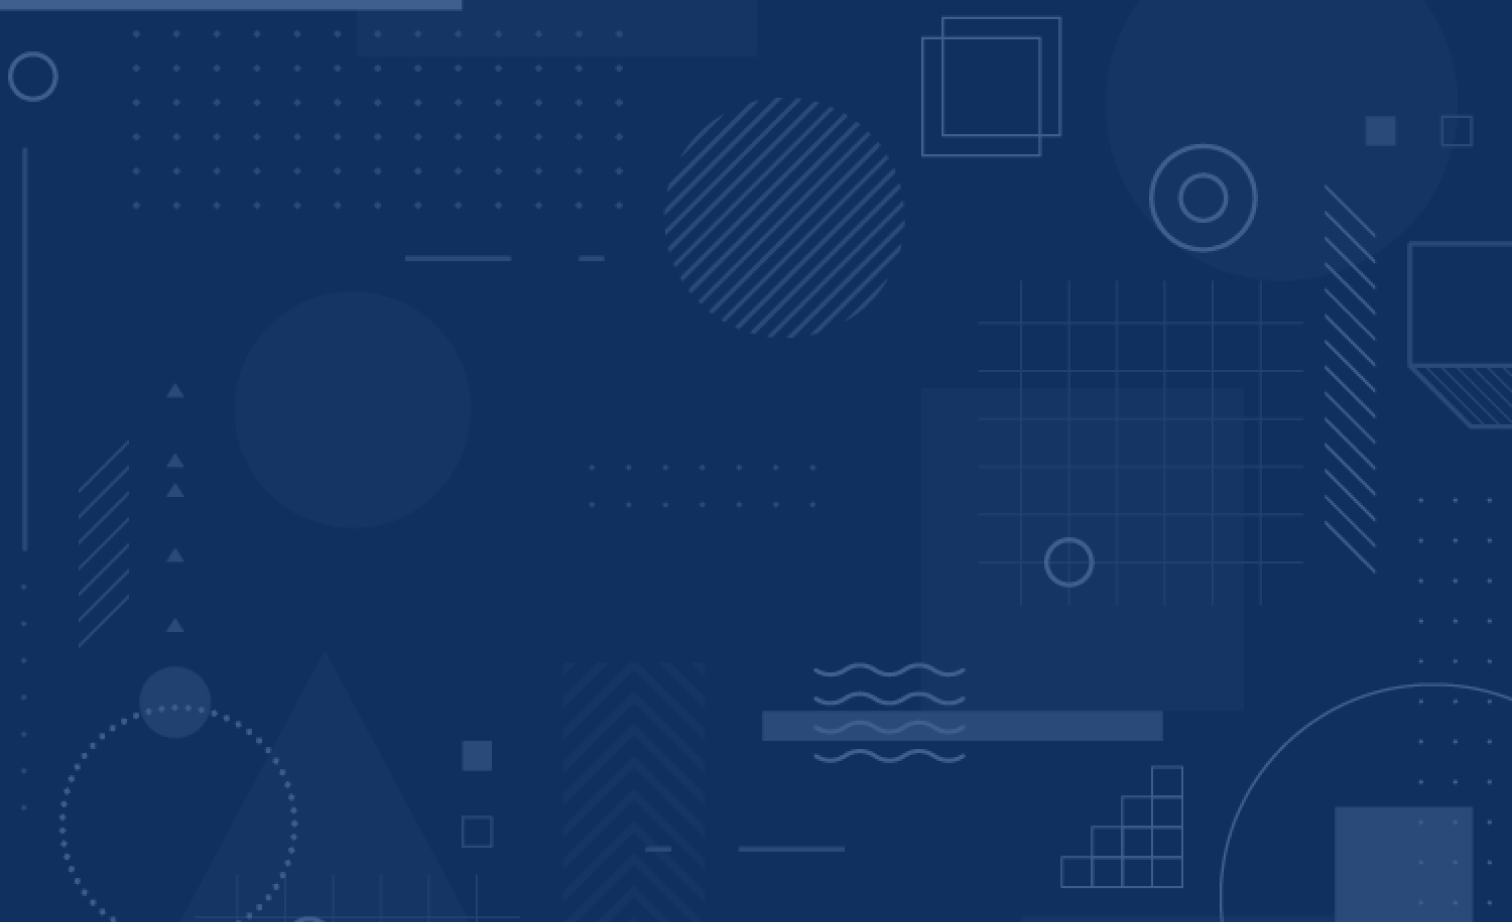
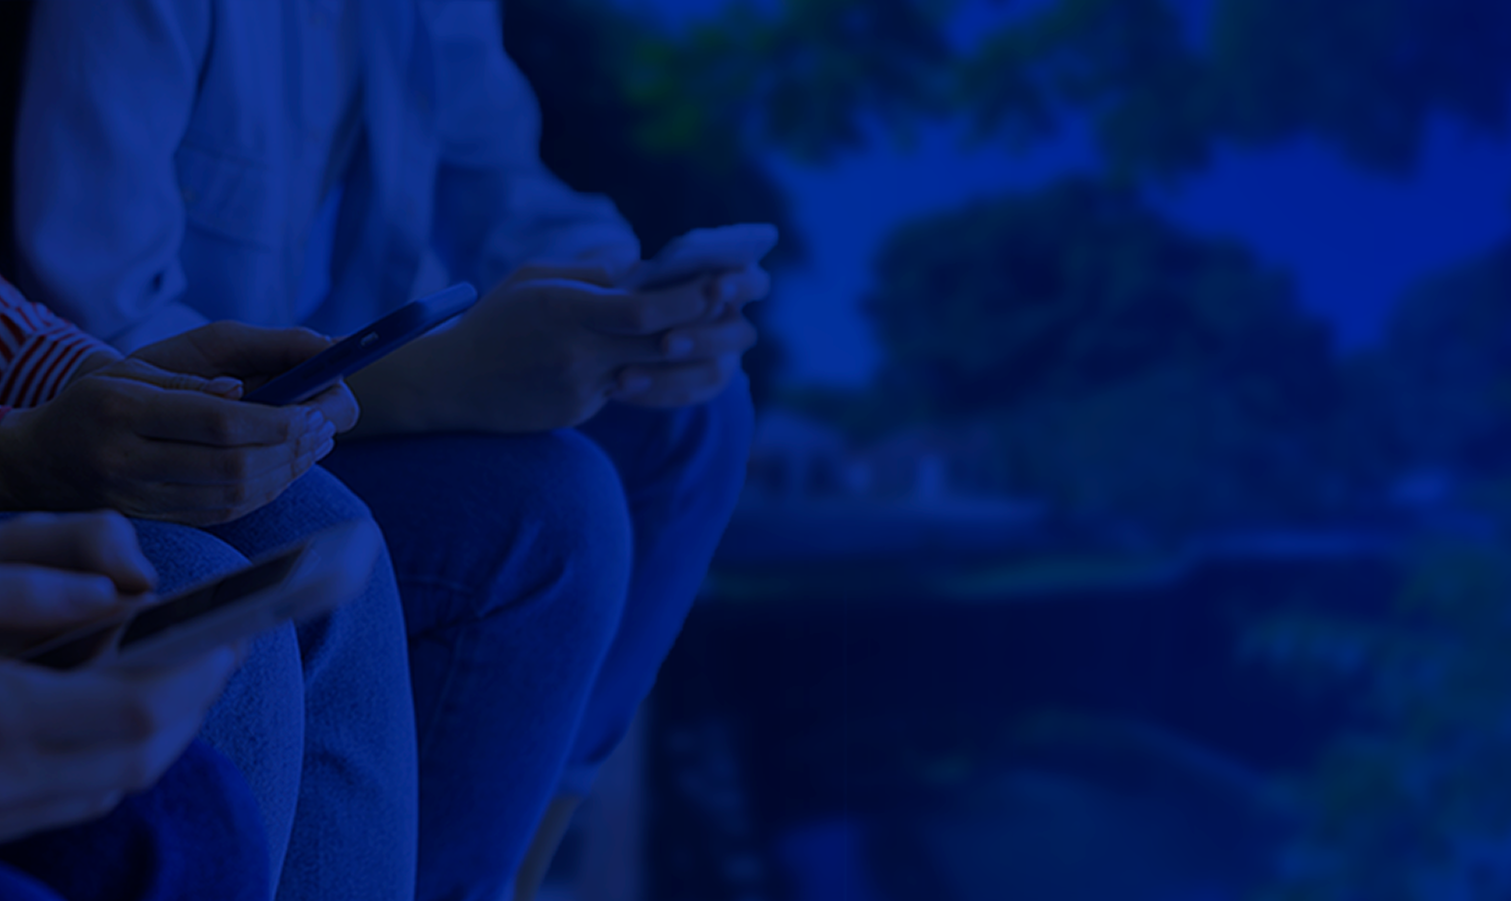
feat: new features section

diff --git a/frontend/components/Features.tsx b/frontend/components/Features.tsx
@@ -8,15 +8,62 @@ import block from '../assets/icons/block.svg'
 import notify from '../assets/icons/notify.svg'
 import location from '../assets/icons/location.svg'
 import dollar from '../assets/icons/dollar.svg'
+import feat1 from '../assets/icons/feat1.png'
+import feat2 from '../assets/icons/feat2.png'
+import feat3 from '../assets/icons/feat3.png'
+import feat4 from '../assets/icons/feat4.png'
+import { Button } from "./ui/button";
 
 export function Features() {
 
   return (
-    <section className="w-full h-screen relative flex flex-col items-center justify-center px-4 z-0">
-      <Image src={shapesLeft} alt="formas esquerda" className="absolute bottom-24 left-0 z-0" />
-      <Image src={shapesRight} alt="formas direita" className="absolute top-80 -right-0" />
+    <section className="w-full h-full lg:h-[700px] gap-20 relative flex flex-col items-center px-4 z-0 py-32">
+      <Image src={shapesLeft} alt="formas esquerda" className="absolute hidden md:block md:top-[900px] lg:top-96 2xl:top-[420px] left-0 z-0" />
+      <Image src={shapesRight} alt="formas direita" className="absolute hidden md:block top-96 md:top-[700px] lg:top-[200px] right-0" />
 
-      <div className="flex md:flex-row flex-col lg:gap-10 z-10 gap-5 md:px-10">
+      <h1 className="text-4xl text-primary font-medium self-start ml-10">Veja como é fácil se proteger</h1>
+
+      <div className="flex lg:flex-wrap flex-col lg:flex-row gap-4">
+        <div className="bg-slate-500 w-72 py-6 px-3 rounded-xl flex gap-2">
+          <Image src={feat1} alt="feat1" />
+          <div className="flex flex-col gap-2">
+            <span className="font-bold">Crie uma conta</span>
+            <span className="font-medium">Cadastre-se no Procura.Aí informando alguns dados básicos</span>
+          </div>
+        </div>
+
+        <div className="bg-procura-ai-yellow/50 w-72 py-6 px-3 rounded-xl flex gap-2">
+          <Image src={feat2} alt="feat1" />
+          <div className="flex flex-col gap-2">
+            <span className="font-bold">Crie uma conta</span>
+            <span className="font-medium">Cadastre-se no Procura.Aí informando alguns dados básicos</span>
+          </div>
+        </div>
+
+        <div className="bg-[#D04228]/50 w-72 py-6 px-3 rounded-xl flex gap-2">
+          <Image src={feat3} alt="feat1" />
+          <div className="flex flex-col gap-2">
+            <span className="font-bold">Crie uma conta</span>
+            <span className="font-medium">Cadastre-se no Procura.Aí informando alguns dados básicos</span>
+          </div>
+        </div>
+
+        <div className="bg-[#39AF84]/50 w-72 py-6 px-3 rounded-xl flex gap-2">
+          <Image src={feat4} alt="feat1" />
+          <div className="flex flex-col gap-2">
+            <span className="font-bold">Crie uma conta</span>
+            <span className="font-medium">Cadastre-se no Procura.Aí informando alguns dados básicos</span>
+          </div>
+        </div>
+      </div>
+
+      <div className="flex flex-col items-center gap-7">
+        <Button className="bg-primary w-fit text-white rounded-full text-xl shadow-sm px-10 py-7 shadow-zinc-800 hover:bg-white hover:text-primary">Cadastrar</Button>
+        <span className="text-2xl font-bold text-procura-ai-black">Disponível em breve nas principais lojas de aplicativos</span>
+      </div>
+
+
+      {/* <div className="flex md:flex-row flex-col lg:gap-10 z-10 gap-5 md:px-10">
         <div className="md:flex justify-center items-center hidden">
           <div className="flex flex-col lg:w-[390px]">
             <Image src={arrow} alt="arrow" className="rotate-90 md:rotate-0" />
@@ -40,7 +87,7 @@ export function Features() {
             </li>
           </ul>
         </div>
-      </div>
+      </div> */}
 
       {/* <span className="font-bold mb-4 text-lg z-10">Baixe nas principais lojas de aplicativos</span>
       <div className="flex z-10">

diff --git a/frontend/components/Hero.tsx b/frontend/components/Hero.tsx
@@ -6,22 +6,22 @@ import landingImages from '../assets/images/landing-images.png'
 
 export function Hero() {
   return (
-    <section className="z-100 w-full bg-zinc-100 flex items-center justify-between md:h-[400px] lg:h-[630px] xl:h-[800px] h-full text-lg md:text-xl lg:text-4xl text-white px-2 md:px-5 lg:px-10 py-7 z-10">
-      <Image src={landingImages} alt="landing background" className="w-1/2" />
-      <div className="flex flex-col items-end gap-1 lg:gap-5">
-        <span className="font-bold w-9/12 text-end text-5xl lg:text-5xl text-primary">
+    <section className="z-100 w-full bg-zinc-100 flex items-center justify-between h-full text-lg md:text-xl lg:text-4xl text-white px-2 md:px-5 lg:px-10 py-7 z-10">
+      <Image src={landingImages} alt="landing background" className="w-1/2 hidden lg:block" />
+      <div className="flex flex-col items-end gap-4 lg:gap-5">
+        <span className="font-bold w-9/12 text-end text-xl lg:text-5xl text-primary">
           Mais segurança na
           Paraíba
         </span>
-        <span className="font-semibold text-2xl break-words w-9/12 text-procura-ai-black text-end">
+        <span className="font-semibold lg:text-2xl break-words w-9/12 text-procura-ai-black text-end">
           Perdeu ou teve seu celular roubado? <br />
           O Procura.AÍ pode te ajudar! <br />
           Cadastre seus dispositivos e, se algo acontecer, acione as autoridades de forma rápida e segura. <br />
           Com ajuda da tecnologia, você aumenta as chances de recuperar seu aparelho e ainda contribui para combater o mercado ilegal. <br />
           Proteja-se agora e fique um passo à frente
         </span>
-        <Link href={'/login'}>
-          <Button className="bg-primary text-white rounded-full lg:text-3xl lg:px-8 lg:py-7 shadow-md shadow-zinc-800 hover:bg-white hover:text-primary">Comece agora</Button>
+        <Link href={'/login'} className="self-center flex lg:self-end">
+          <Button className="bg-primary font-semibold text-xl text-white rounded-full w-fit px-8 py-6 self-center shadow-md shadow-zinc-800 hover:bg-white hover:text-primary">Entrar</Button>
         </Link>
       </div>
     </section>

diff --git a/frontend/components/Forms/LoginForm.tsx b/frontend/components/Forms/LoginForm.tsx
@@ -118,9 +118,9 @@ export function LoginForm() {
             name="email"
             render={({ field }) => (
               <FormItem className="flex flex-col w-full">
-                <FormLabel className="text-zinc-700 ml-4 font-bold">Usuário</FormLabel>
+                <FormLabel className="text-zinc-700 ml-4 font-bold pl-5">E-mail</FormLabel>
                 <FormControl>
-                  <Input type="text" placeholder="Email" {...field} className="rounded-full" />
+                  <Input type="text" placeholder="Email" {...field} className="rounded-full w-64 self-center" />
                 </FormControl>
                 <FormMessage />
               </FormItem>
@@ -132,15 +132,15 @@ export function LoginForm() {
             name="password"
             render={({ field }) => (
               <FormItem className="flex flex-col w-full">
-                <FormLabel className="text-zinc-700 ml-4 font-bold">Senha</FormLabel>
+                <FormLabel className="text-zinc-700 ml-4 font-bold pl-5">Senha</FormLabel>
                 <FormControl>
-                  <Input type="password" placeholder="Senha" {...field} className="rounded-full" />
+                  <Input type="password" placeholder="Senha" {...field} className="rounded-full w-64 self-center" />
                 </FormControl>
                 <FormMessage />
               </FormItem>
             )}
           />
-          <Link href="/forgot-password" aria-disabled className="underline self-start hover:opacity-50 text-sm">Esqueceu sua senha?</Link>
+          <Link href="/forgot-password" aria-disabled className="underline aria-disabled:text-zinc-400 self-start pl-10 text-sm ">Esqueceu sua senha?</Link>
 
           <Button className="bg-primary text-white rounded-full w-44 text-lg py-4 shadow hover:bg-white hover:text-primary hover:ring-1 hover:ring-primary transition-all duration-300">Entrar</Button>
 

diff --git a/frontend/app/login/page.tsx b/frontend/app/login/page.tsx
@@ -4,6 +4,7 @@ import { LoginForm } from "@/components/Forms/LoginForm";
 import { FAQ } from "@/components/FAQ";
 import logo from '../../assets/icons/logo-text.svg'
 import logoLogin from '../../assets/icons/logo-login.svg'
+import { Footer } from "@/components/Footer";
 
 export default function Login() {
   return (
@@ -11,7 +12,7 @@ export default function Login() {
       <header className="shadow-lg flex items-center h-15 pt-2 z-10 sticky">
         <Image src={logo} alt="logo" className="h-16 -left-8 relative" />
       </header>
-      <main className="flex flex-col row-start-2 items-center sm:items-start min-h-fit h-full w-full">
+      <main className="flex flex-col row-start-2 items-center sm:items-start min-h-fit w-full">
         <div className="flex relative flex-col w-full bg-login-bg bg-[length:80%_100%]">
           <div className="w-full flex">
             <div className=" w-full items-center justify-center hidden md:flex">
@@ -21,7 +22,11 @@ export default function Login() {
             <LoginForm />
           </div>
         </div>
-        <FAQ position="absolute" />
+
+        <div className="relative w-full bg-[#F2F7FC]">
+          <FAQ position="relative" />
+        </div>
+        {/* <Footer /> */}
       </main>
     </>
   );

diff --git a/frontend/components/FAQ.tsx b/frontend/components/FAQ.tsx
@@ -13,8 +13,8 @@ import { cn } from "@/lib/utils"
 export function FAQ({ position }: { position: string }) {
 
   return (
-    <section className={cn('w-full  h-fit bg-faq bg-cover flex flex-col justify-between pt-28', position === 'relative' ? 'relative' : 'absolute -bottom-[125%] md:-bottom-[113%] lg:-bottom-[115%] xl:-bottom-[110%] 2xl:-bottom-[115%]')}>
-      <div className="flex flex-col gap-5 w-full h-full px-4 lg:px-32 mb-5">
+    <section className={cn('w-full h-fit  bg-faq bg-cover flex flex-col justify-between pt-28 relative -top-28')} >
+      <div className="flex flex-col gap-5 w-full h-full px-4 lg:px-32">
         <h2 className='text-secondary font-bold text-3xl self-center'>Perguntas frequentes</h2>
 
         <div className="w-full flex flex-col gap-6">
@@ -31,7 +31,9 @@ export function FAQ({ position }: { position: string }) {
         </div>
       </div>
 
-      <Footer />
-    </section>
+      <div className="flex w-full absolute -bottom-28">
+        <Footer />
+      </div>
+    </section >
   )
 }

diff --git a/frontend/components/Tables/DeviceRow.tsx b/frontend/components/Tables/DeviceRow.tsx
@@ -160,7 +160,7 @@ export function DeviceRow({ id, phone_number, phone_model, brand, imei, isStolen
         <span className={cn("rounded-md w-28 flex items-center justify-center capitalize",
           status === "Roubado" && "bg-red-500/20 text-red-700 p-1",
           status === "Recuperado" && "bg-lime-500/20 text-lime-700 p-1",
-          status === " regular" && "bg-lime-500/20 text-lime-700 p-1",
+          status === "Regular" && "bg-lime-500/20 text-lime-700 p-1",
           status === "Furtado" && "bg-yellow-500/20 text-yellow-700 p-1",
           // status === "Perdido" && "bg-primary/20 text-primary p-1", // orange color
           status === "Perdido" && "bg-violet-500/20 text-violet-700 p-1", // orange color

diff --git a/frontend/components/Charts/ChartBoard.tsx b/frontend/components/Charts/ChartBoard.tsx
@@ -519,12 +519,15 @@ export function ChartBoard() {
     getNumberOfAllStolenDevices()
     getAllDistricts()
     fetchAllDevices()
-    
-    }, [notifications])
+
+  }, [notifications])
 
   return (
     <>
-      <NotificationButton notifications={notifications} setNotifications={setNotifications}/>
+      <div className="absolute top-0 right-5 z-10">
+        <NotificationButton notifications={notifications} setNotifications={setNotifications} />
+
+      </div>
 
       <div className="w-full h-full flex flex-col py-5 justify-start items-center gap-5">
 

diff --git a/frontend/app/layout.tsx b/frontend/app/layout.tsx
@@ -5,7 +5,7 @@ import "./globals.css";
 import { Footer } from "@/components/Footer";
 import { ToastContainer } from 'react-toastify';
 
-const roboto = Raleway({
+const roboto = Roboto({
   subsets: ['latin'], // Escolha o conjunto de caracteres necessário
   weight: ['100', '300', '400', '500', '700', '900'], // Escolha os pesos necessários
   style: ['normal', 'italic'], // (Opcional) Para incluir estilos como itálico
